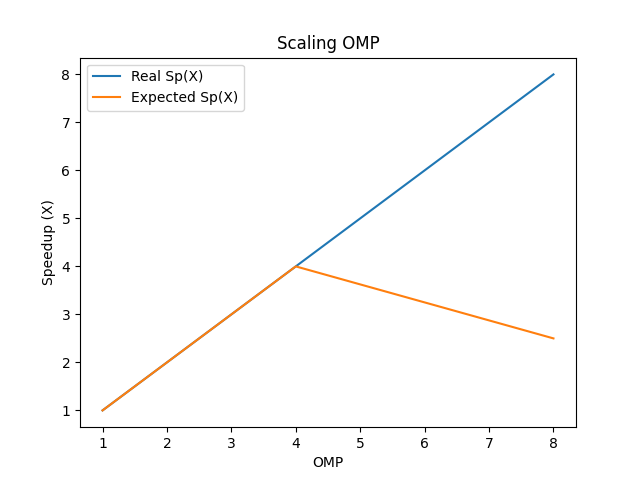
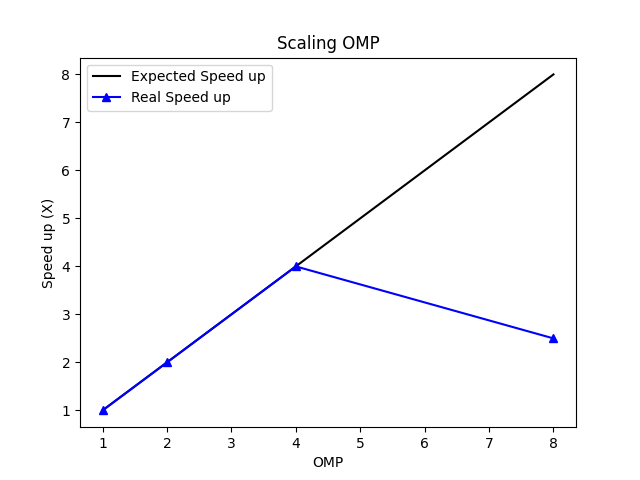
Update plot view

diff --git a/scalability.py b/scalability.py
@@ -48,7 +48,7 @@ class Experiment:
         return ret
 
     def __repr__(self) -> str:
-        ret = f"{self.name} {self.throughput} ({self.throughputUnit}) Params: "
+        ret = f"{self.name} {self.throughput} ({self.throughputUnit}) Info: "
         for k in self.params.values():
             ret += f"{k} "
         return ret
@@ -137,9 +137,9 @@ class ExperimentCollection:
         if not as_categorical:
             data['cfg'] = [int(x) for x in data['cfg']]
         plt.figure()
-        plt.plot('cfg', 'real', label="Real Sp(X)", data=data)
-        plt.plot('cfg', 'expected', label="Expected Sp(X)", data=data)
-        plt.ylabel("Speedup (X)")
+        plt.plot('cfg', 'expected', 'k', label="Expected Speed up", data=data)
+        plt.plot('cfg', 'real', 'b-^', label="Real Speed up", data=data)
+        plt.ylabel("Speed up (X)")
         plt.xlabel(in_base)
         plt.title(f"Scaling {in_base}")
         plt.legend()
